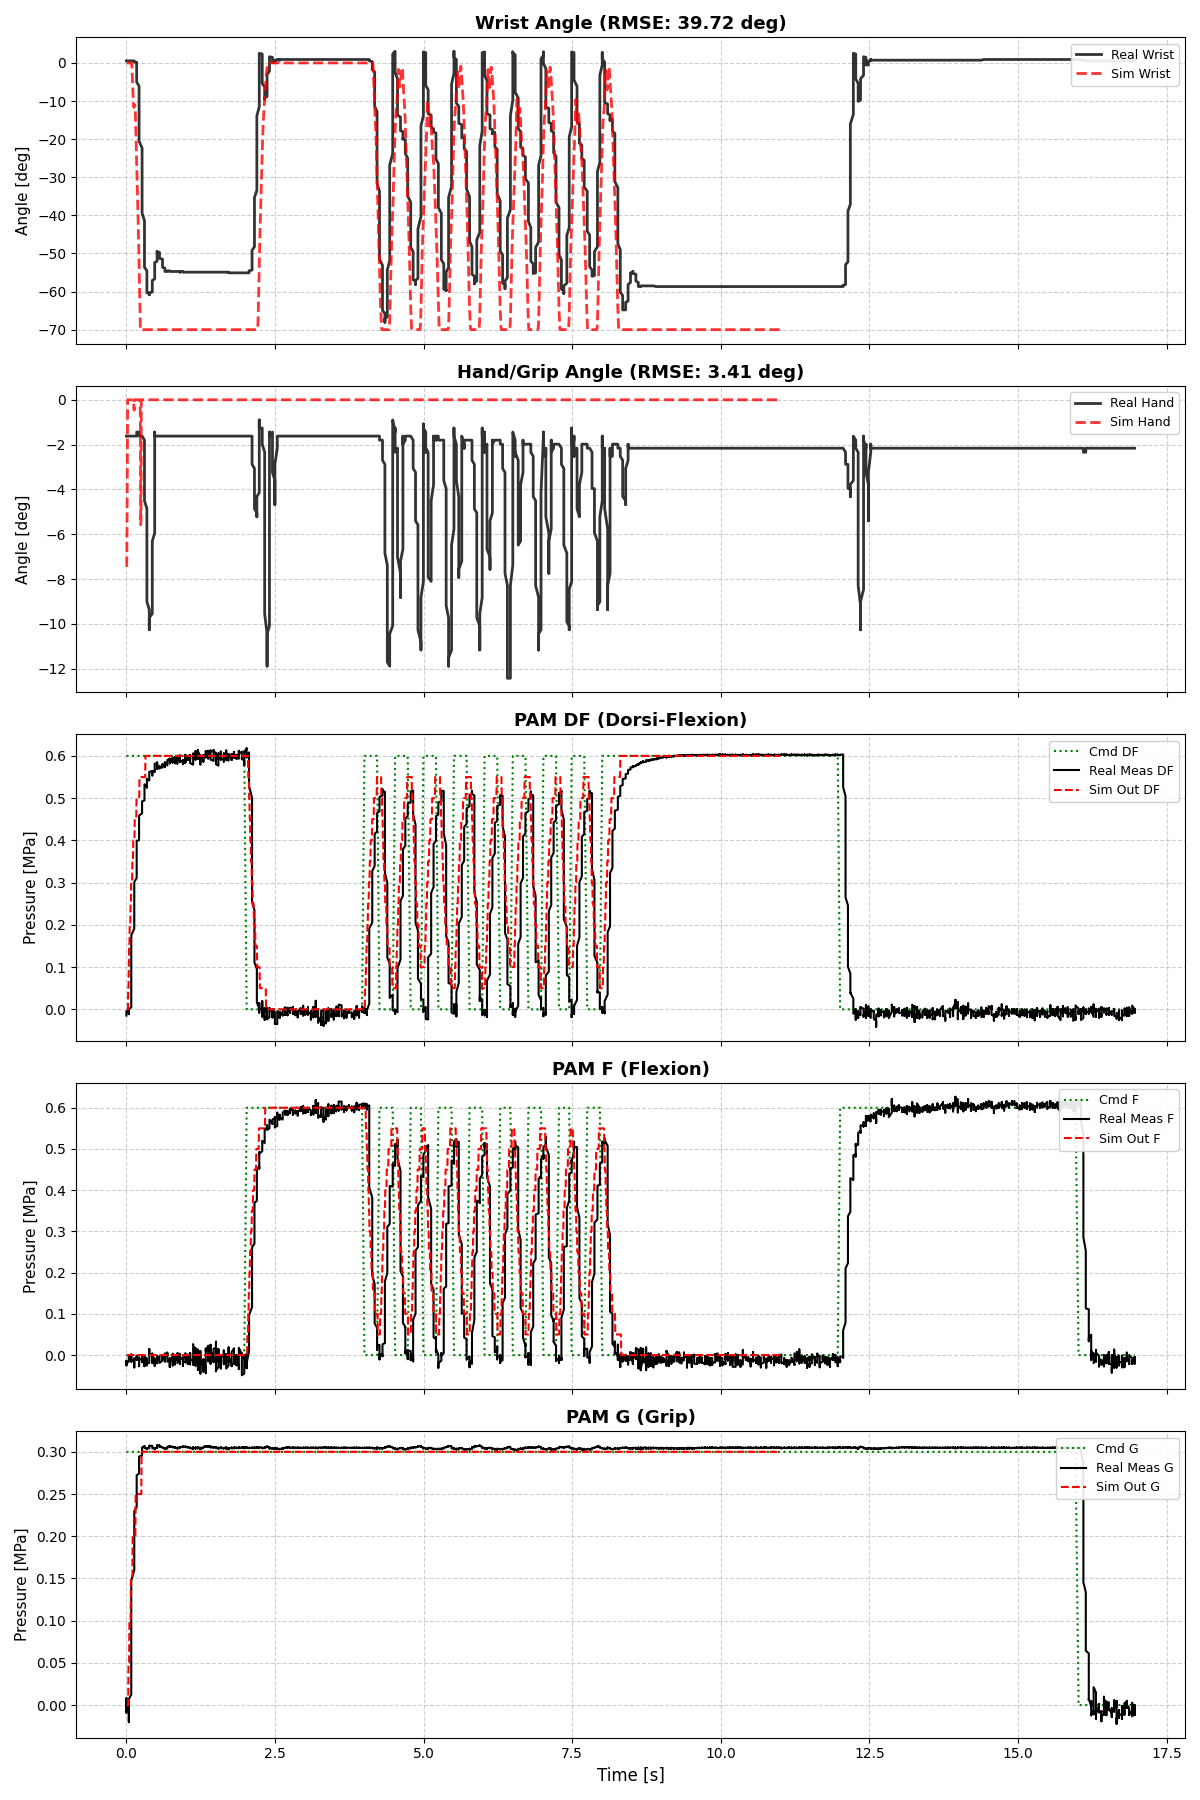
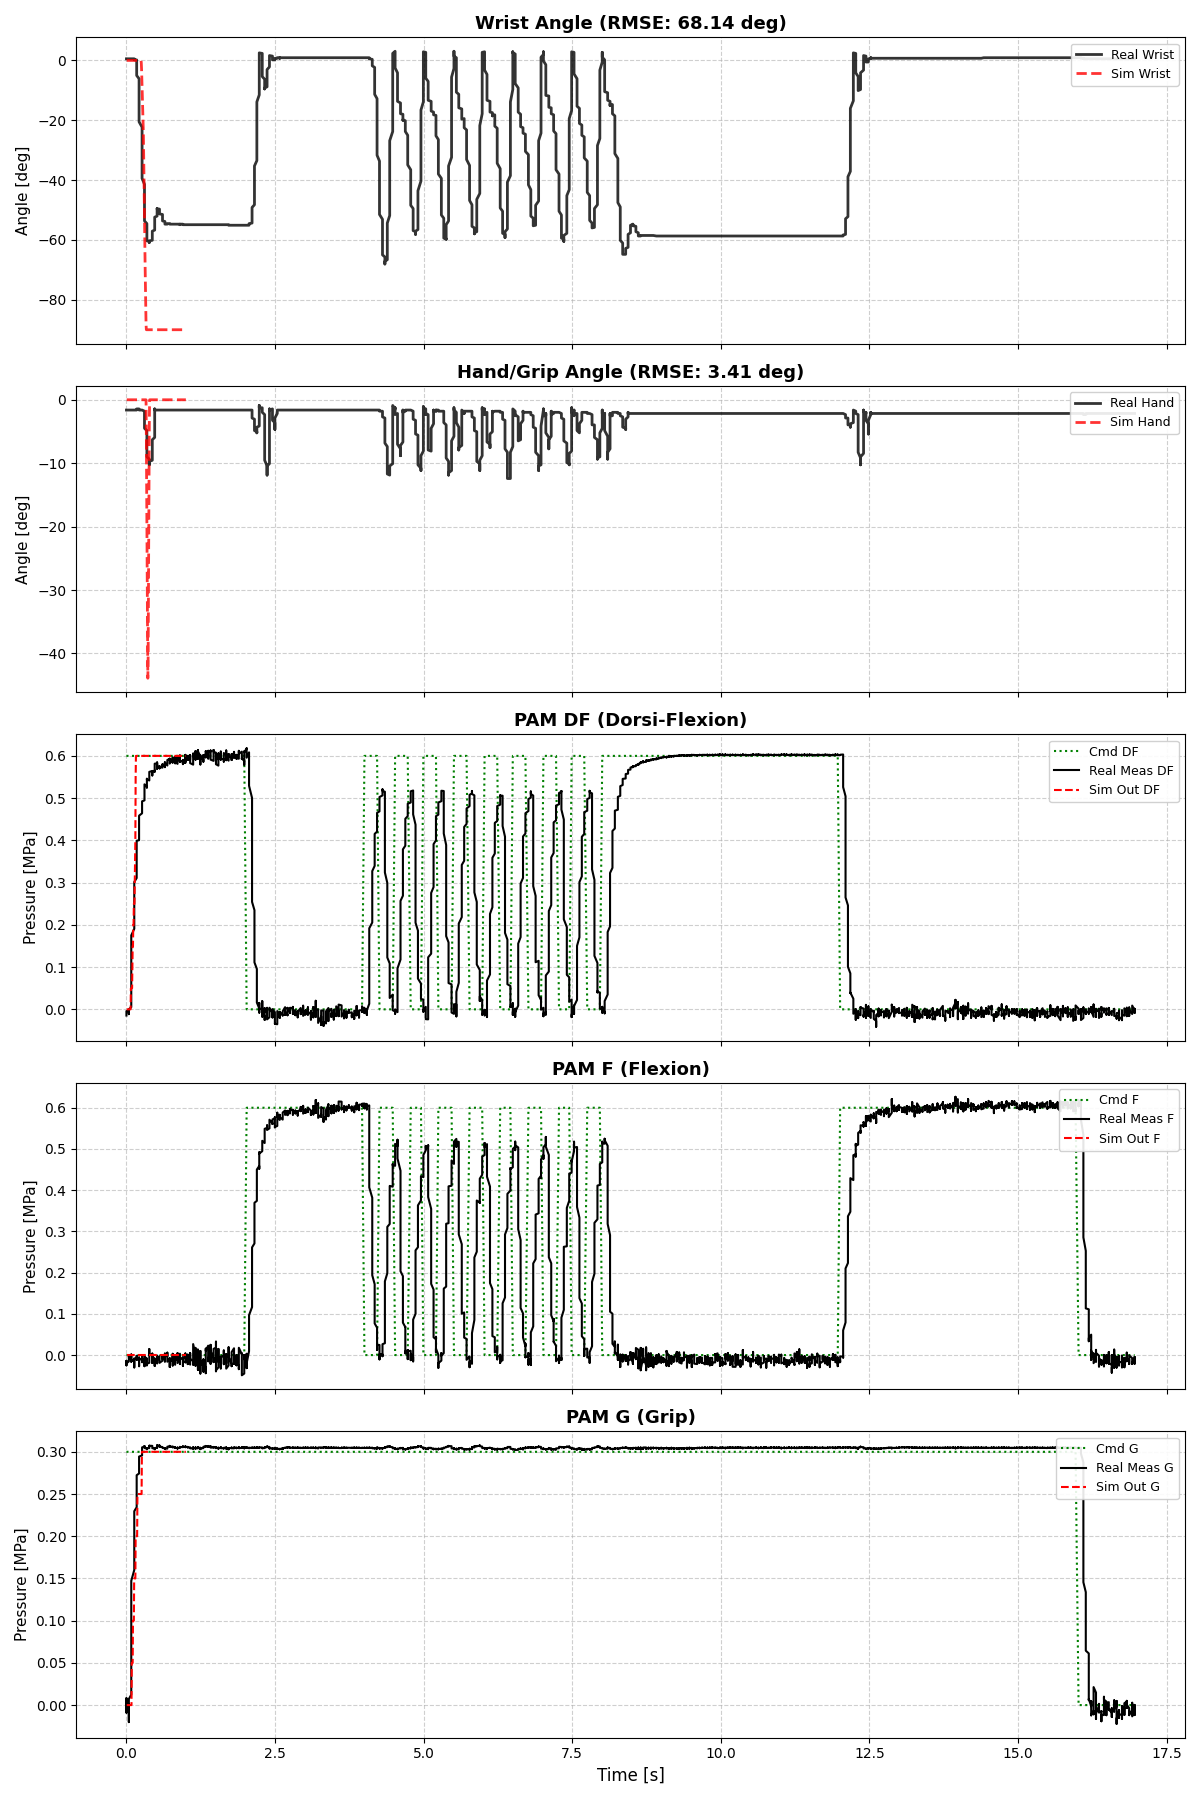
fix softengagement

diff --git a/source/porcaro_rl/porcaro_rl/tasks/direct/porcaro_rlv1/porcaro_rl_env_cfg.py b/source/porcaro_rl/porcaro_rl/tasks/direct/porcaro_rlv1/porcaro_rl_env_cfg.py
@@ -82,7 +82,7 @@ class PorcaroRLEnvCfg(DirectRLEnvCfg):
     # デフォルトは True (有効収縮率を使用) とし、オフセットは 0 (影響なし) で初期化
     pam_geometric_cfg: PamGeometricCfg = PamGeometricCfg(
         enable_slack_compensation=True,
-        wire_slack_offsets=(0.00504, 0.02146, 0.01357), # 後でキャリブレーション値をここに入れます 0.00x mのワイヤーが正しく貼るまでの長さ
+        wire_slack_offsets=(0.00504, -0.02146, 0.02357), # 後でキャリブレーション値をここに入れます 0.00x mのワイヤーが正しく貼るまでの長さ
         natural_length=0.150
     )
     # --------------------------
@@ -199,20 +199,30 @@ class PorcaroRLEnvCfg_ModelB(PorcaroRLEnvCfg):
     def __post_init__(self):
         super().__post_init__()
         
-        # [変更] Model Aと同様に max_delay_time を指定
-        # 必要であればここで tau_values や deadtime_values を上書き定義可能
-        self.pam_delay_cfg = PamDelayModelCfg(
-            max_delay_time=0.1
-        )
-        
+        # ... (既存のPAM設定) ...
+        self.pam_delay_cfg = PamDelayModelCfg(max_delay_time=0.1)
         self.pam_geometric_cfg.enable_pressure_dependency = True
-        
         self.actuator_net_cfg = None
 
-        # 3. ★二重遅れ防止: コントローラ側を理想応答(遅れゼロ)に設定
+        # --- コントローラ側のダイナミクス無効化 (二重適用防止) ---
         self.controller.tau = 0.0
         self.controller.dead_time = 0.0
         self.controller.use_pressure_dependent_tau = False
+        
+        # ===================================================
+        # ★ ここで粘性とSoft Engagementを調整してください
+        # ===================================================
+        
+        # [1] 粘性係数 (Viscosity)
+        # 値が大きいほど「ネバネバ」になり、振動が抑制されますが、動きが遅くなります。
+        # デフォルト: 500.0 (torque.pyの初期値)
+        self.controller.pam_viscosity = 10000.0 
+
+        # [2] Soft Engagement (接触の鋭さ)
+        # 値が大きいほど「硬い接触（急激な力発生）」になります。
+        # 値が小さいほど「柔らかい接触（ワイヤーが徐々に張る）」になります。
+        # デフォルト: 20.0 (torque.pyの初期値)
+        self.controller.engagement_smoothness = 20.0
 
 @configclass
 class PorcaroRLEnvCfg_ModelB_DR(PorcaroRLEnvCfg_ModelB):

diff --git a/source/porcaro_rl/porcaro_rl/tasks/direct/porcaro_rlv1/actions/pam.py b/source/porcaro_rl/porcaro_rl/tasks/direct/porcaro_rlv1/actions/pam.py
@@ -118,7 +118,7 @@ def contraction_ratio_from_angle(theta: torch.Tensor, theta_t_deg: float, r: flo
 
 def calculate_effective_contraction(theta_deg, theta_t_deg, r, L0, 
                                     slack_offset, pressure: torch.Tensor = 0.0, 
-                                    shrink_gain: float = 0.0, clamp: bool = True,
+                                    shrink_gain: float = 0.0, clamp: bool = False,
                                     sign: float = 1.0):
     theta_rad = torch.deg2rad(theta_deg)
     theta_t_rad = math.radians(theta_t_deg)
@@ -132,7 +132,20 @@ def calculate_effective_contraction(theta_deg, theta_t_deg, r, L0,
     return epsilon
 
 def apply_soft_engagement(force: torch.Tensor, epsilon: torch.Tensor, smoothness: float = 100.0) -> torch.Tensor:
-    slack_amount = torch.clamp(epsilon, min=0.0)
+    """
+    修正版: 接触時の力の立ち上がりを滑らかにする
+    """
+    # === 修正箇所 ===
+    # 修正前: slack_amount = torch.clamp(epsilon, min=0.0)
+    # 解説: 修正前は「正の値(張っている状態)」を「たるみ」として扱っていたため、
+    #       縮めば縮むほど力がゼロになるバグがありました。
+    
+    # 修正後: epsilonが「負(たるんでいる)」のとき、その絶対値を「たるみ量」とする。
+    # - epsilon > 0 (張っている): slack=0 -> マスク=1.0 (力そのまま)
+    # - epsilon < 0 (たるんでいる): slack>0 -> マスク<1.0 (力が弱まる)
+    slack_amount = torch.clamp(-epsilon, min=0.0) 
+    # =================
+    
     x = slack_amount * smoothness
     mask_val = torch.clamp(1.0 - x, min=0.0)
     mask_val = mask_val * mask_val

diff --git a/scripts/analyze_sim_real.py b/scripts/analyze_sim_real.py
@@ -20,7 +20,7 @@ def main():
     # 実機データとSimデータのファイル名
     # ※ 必要に応じてファイル名を変更してください
     real_csv_name = "data_exp4_validation_seq_.csv"
-    sim_csv_name = "verify_ModelA_Ideal_REPLAY_data_exp4_validation_seq_.csv"
+    sim_csv_name = "verify_ModelB_Ideal_REPLAY_data_exp4_validation_seq_.csv"
 
     real_csv_path = os.path.join(project_root, "external_data", "jetson_project", real_csv_name)
     sim_csv_path = os.path.join(project_root, sim_csv_name)

diff --git a/source/porcaro_rl/porcaro_rl/tasks/direct/porcaro_rlv1/cfg/assets.py b/source/porcaro_rl/porcaro_rl/tasks/direct/porcaro_rlv1/cfg/assets.py
@@ -12,7 +12,7 @@ from isaaclab.sim.schemas import MassPropertiesCfg
 
 # --- 定数 ---
 WRIST_J0       = math.radians(0.0)
-GRIP_J0        = math.radians(-8.1)
+GRIP_J0        = math.radians(0)#-8.1)
 
 # --- ヘルパー関数 ---
 def quat_from_euler_zyx(yaw_deg=0.0, pitch_deg=0.0, roll_deg=0.0):
